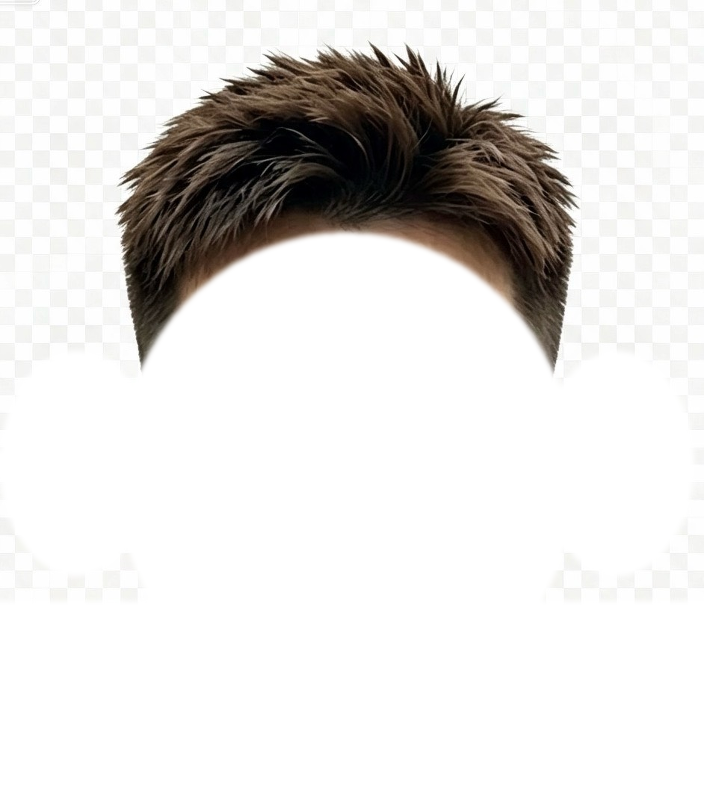
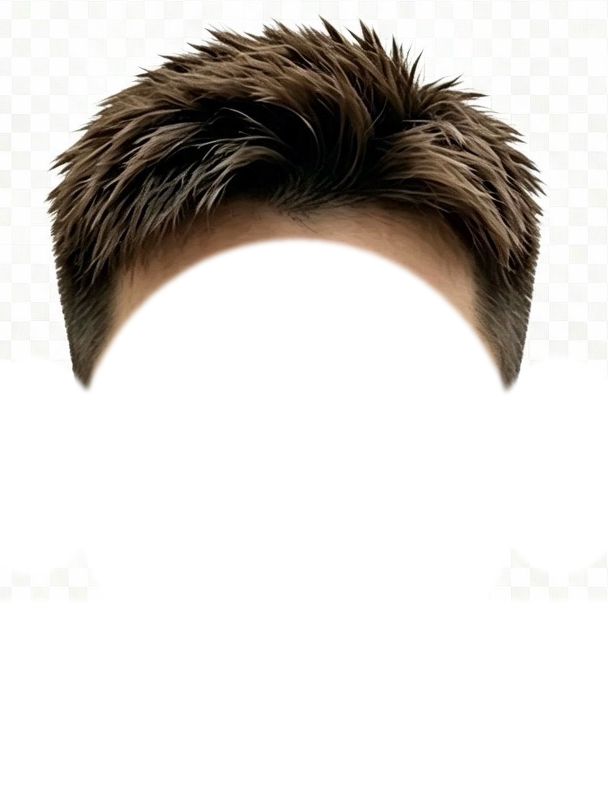
refactor(style): 用裁剪更紧凑的图源重新生成 id=34 纹理前刺短发
- 新版正面照去除大量空白，人脸占比更大
- 重新生成 AR 精灵图 608x800 与缩略图，更新 HAIR_META[34] 坐标与包围盒

Changed region(s): [[0.0625, 0.0312, 0.9062, 0.5]]

diff --git a/demo/js/hairmeta.js b/demo/js/hairmeta.js
@@ -1,1 +1,1 @@
-const HAIR_META = {"1": {"w": 551, "h": 800, "eyeL": [195.6, 407.9], "eyeR": [354.7, 418.5], "face": [64, 265, 394, 394], "box": [0, 67, 530, 799], "coverage": 0.4629}, "2": {"w": 606, "h": 800, "eyeL": [243.7, 329.8], "eyeR": [375.3, 336.4], "face": [168, 224, 312, 312], "box": [50, 6, 562, 799], "coverage": 0.3611}, "3": {"w": 606, "h": 800, "eyeL": [221.9, 333.6], "eyeR": [367.8, 347.9], "face": [117, 229, 355, 355], "box": [64, 9, 536, 603], "coverage": 0.2968}, "4": {"w": 606, "h": 800, "eyeL": [255.5, 319.9], "eyeR": [396.8, 318.3], "face": [152, 228, 334, 334], "box": [80, 7, 563, 753], "coverage": 0.3582}, "5": {"w": 669, "h": 800, "eyeL": [267.3, 255.9], "eyeR": [357.4, 256.3], "face": [202, 191, 218, 218], "box": [18, 56, 599, 799], "coverage": 0.3497}, "7": {"w": 606, "h": 800, "eyeL": [220.5, 329.9], "eyeR": [336.3, 327.4], "face": [159, 247, 278, 278], "box": [53, 60, 547, 670], "coverage": 0.2472}, "8": {"w": 606, "h": 800, "eyeL": [255.0, 262.2], "eyeR": [357.3, 264.2], "face": [182, 183, 256, 256], "box": [14, 14, 605, 799], "coverage": 0.4176}, "9": {"w": 606, "h": 800, "eyeL": [255.9, 240.2], "eyeR": [329.3, 254.8], "face": [184, 191, 185, 185], "box": [23, 58, 466, 790], "coverage": 0.3208}, "10": {"w": 606, "h": 800, "eyeL": [243.2, 315.9], "eyeR": [364.1, 312.6], "face": [160, 224, 291, 291], "box": [87, 42, 513, 607], "coverage": 0.192}, "11": {"w": 606, "h": 800, "eyeL": [253.6, 382.2], "eyeR": [362.6, 387.8], "face": [176, 307, 268, 268], "box": [145, 149, 458, 403], "coverage": 0.0799}, "12": {"w": 606, "h": 800, "eyeL": [244.1, 360.9], "eyeR": [368.3, 367.0], "face": [150, 276, 311, 311], "box": [110, 89, 497, 414], "coverage": 0.1342}, "13": {"w": 606, "h": 800, "eyeL": [244.3, 397.4], "eyeR": [379.3, 406.1], "face": [140, 308, 333, 333], "box": [139, 136, 465, 411], "coverage": 0.0762}, "14": {"w": 606, "h": 800, "eyeL": [204.5, 366.6], "eyeR": [315.3, 362.7], "face": [129, 293, 265, 265], "box": [115, 138, 398, 374], "coverage": 0.0624}, "15": {"w": 606, "h": 800, "eyeL": [248.4, 361.7], "eyeR": [372.6, 365.6], "face": [155, 279, 306, 306], "box": [151, 120, 456, 378], "coverage": 0.0619}, "16": {"w": 606, "h": 800, "eyeL": [246.6, 435.4], "eyeR": [366.5, 431.2], "face": [156, 345, 297, 297], "box": [125, 165, 477, 485], "coverage": 0.1043}, "17": {"w": 606, "h": 800, "eyeL": [248.1, 347.4], "eyeR": [361.8, 350.6], "face": [168, 269, 278, 278], "box": [104, 67, 495, 400], "coverage": 0.1379}, "18": {"w": 606, "h": 800, "eyeL": [249.3, 362.6], "eyeR": [361.0, 360.3], "face": [169, 286, 267, 267], "box": [116, 126, 482, 591], "coverage": 0.1255}, "19": {"w": 606, "h": 800, "eyeL": [244.5, 424.7], "eyeR": [355.2, 423.0], "face": [163, 341, 278, 278], "box": [139, 177, 450, 439], "coverage": 0.0734}, "20": {"w": 606, "h": 800, "eyeL": [246.7, 358.5], "eyeR": [363.2, 360.9], "face": [160, 278, 292, 292], "box": [129, 75, 475, 369], "coverage": 0.0926}, "24": {"w": 642, "h": 800, "eyeL": [327.9, 357.6], "eyeR": [441.4, 347.3], "face": [224, 257, 277, 277], "box": [0, 50, 540, 612], "coverage": 0.2148}, "29": {"w": 760, "h": 800, "eyeL": [339.1, 325.0], "eyeR": [475.2, 327.5], "face": [248, 231, 319, 319], "box": [133, 0, 676, 755], "coverage": 0.2153}, "31": {"w": 811, "h": 800, "eyeL": [344.3, 346.6], "eyeR": [468.7, 347.9], "face": [264, 260, 292, 292], "box": [165, 83, 647, 690], "coverage": 0.2111}, "32": {"w": 600, "h": 800, "eyeL": [241.9, 270.5], "eyeR": [341.9, 275.2], "face": [168, 195, 251, 251], "box": [6, 34, 593, 799], "coverage": 0.4248}, "33": {"w": 599, "h": 800, "eyeL": [242.0, 272.0], "eyeR": [343.3, 273.3], "face": [170, 195, 249, 249], "box": [40, 37, 535, 799], "coverage": 0.3622}, "34": {"w": 704, "h": 800, "eyeL": [255.1, 412.8], "eyeR": [438.7, 412.8], "face": [92.0, 219.1, 509.9, 509.9], "box": [0, 0, 704, 607], "coverage": 0.4254}};
+const HAIR_META = {"1": {"w": 551, "h": 800, "eyeL": [195.6, 407.9], "eyeR": [354.7, 418.5], "face": [64, 265, 394, 394], "box": [0, 67, 530, 799], "coverage": 0.4629}, "2": {"w": 606, "h": 800, "eyeL": [243.7, 329.8], "eyeR": [375.3, 336.4], "face": [168, 224, 312, 312], "box": [50, 6, 562, 799], "coverage": 0.3611}, "3": {"w": 606, "h": 800, "eyeL": [221.9, 333.6], "eyeR": [367.8, 347.9], "face": [117, 229, 355, 355], "box": [64, 9, 536, 603], "coverage": 0.2968}, "4": {"w": 606, "h": 800, "eyeL": [255.5, 319.9], "eyeR": [396.8, 318.3], "face": [152, 228, 334, 334], "box": [80, 7, 563, 753], "coverage": 0.3582}, "5": {"w": 669, "h": 800, "eyeL": [267.3, 255.9], "eyeR": [357.4, 256.3], "face": [202, 191, 218, 218], "box": [18, 56, 599, 799], "coverage": 0.3497}, "7": {"w": 606, "h": 800, "eyeL": [220.5, 329.9], "eyeR": [336.3, 327.4], "face": [159, 247, 278, 278], "box": [53, 60, 547, 670], "coverage": 0.2472}, "8": {"w": 606, "h": 800, "eyeL": [255.0, 262.2], "eyeR": [357.3, 264.2], "face": [182, 183, 256, 256], "box": [14, 14, 605, 799], "coverage": 0.4176}, "9": {"w": 606, "h": 800, "eyeL": [255.9, 240.2], "eyeR": [329.3, 254.8], "face": [184, 191, 185, 185], "box": [23, 58, 466, 790], "coverage": 0.3208}, "10": {"w": 606, "h": 800, "eyeL": [243.2, 315.9], "eyeR": [364.1, 312.6], "face": [160, 224, 291, 291], "box": [87, 42, 513, 607], "coverage": 0.192}, "11": {"w": 606, "h": 800, "eyeL": [253.6, 382.2], "eyeR": [362.6, 387.8], "face": [176, 307, 268, 268], "box": [145, 149, 458, 403], "coverage": 0.0799}, "12": {"w": 606, "h": 800, "eyeL": [244.1, 360.9], "eyeR": [368.3, 367.0], "face": [150, 276, 311, 311], "box": [110, 89, 497, 414], "coverage": 0.1342}, "13": {"w": 606, "h": 800, "eyeL": [244.3, 397.4], "eyeR": [379.3, 406.1], "face": [140, 308, 333, 333], "box": [139, 136, 465, 411], "coverage": 0.0762}, "14": {"w": 606, "h": 800, "eyeL": [204.5, 366.6], "eyeR": [315.3, 362.7], "face": [129, 293, 265, 265], "box": [115, 138, 398, 374], "coverage": 0.0624}, "15": {"w": 606, "h": 800, "eyeL": [248.4, 361.7], "eyeR": [372.6, 365.6], "face": [155, 279, 306, 306], "box": [151, 120, 456, 378], "coverage": 0.0619}, "16": {"w": 606, "h": 800, "eyeL": [246.6, 435.4], "eyeR": [366.5, 431.2], "face": [156, 345, 297, 297], "box": [125, 165, 477, 485], "coverage": 0.1043}, "17": {"w": 606, "h": 800, "eyeL": [248.1, 347.4], "eyeR": [361.8, 350.6], "face": [168, 269, 278, 278], "box": [104, 67, 495, 400], "coverage": 0.1379}, "18": {"w": 606, "h": 800, "eyeL": [249.3, 362.6], "eyeR": [361.0, 360.3], "face": [169, 286, 267, 267], "box": [116, 126, 482, 591], "coverage": 0.1255}, "19": {"w": 606, "h": 800, "eyeL": [244.5, 424.7], "eyeR": [355.2, 423.0], "face": [163, 341, 278, 278], "box": [139, 177, 450, 439], "coverage": 0.0734}, "20": {"w": 606, "h": 800, "eyeL": [246.7, 358.5], "eyeR": [363.2, 360.9], "face": [160, 278, 292, 292], "box": [129, 75, 475, 369], "coverage": 0.0926}, "24": {"w": 642, "h": 800, "eyeL": [327.9, 357.6], "eyeR": [441.4, 347.3], "face": [224, 257, 277, 277], "box": [0, 50, 540, 612], "coverage": 0.2148}, "29": {"w": 760, "h": 800, "eyeL": [339.1, 325.0], "eyeR": [475.2, 327.5], "face": [248, 231, 319, 319], "box": [133, 0, 676, 755], "coverage": 0.2153}, "31": {"w": 811, "h": 800, "eyeL": [344.3, 346.6], "eyeR": [468.7, 347.9], "face": [264, 260, 292, 292], "box": [165, 83, 647, 690], "coverage": 0.2111}, "32": {"w": 600, "h": 800, "eyeL": [241.9, 270.5], "eyeR": [341.9, 275.2], "face": [168, 195, 251, 251], "box": [6, 34, 593, 799], "coverage": 0.4248}, "33": {"w": 599, "h": 800, "eyeL": [242.0, 272.0], "eyeR": [343.3, 273.3], "face": [170, 195, 249, 249], "box": [40, 37, 535, 799], "coverage": 0.3622}, "34": {"w": 608, "h": 800, "eyeL": [207.2, 415.7], "eyeR": [386.7, 415.7], "face": [47.7, 226.3, 498.6, 498.6], "box": [0, 0, 608, 606], "coverage": 0.4063}};
